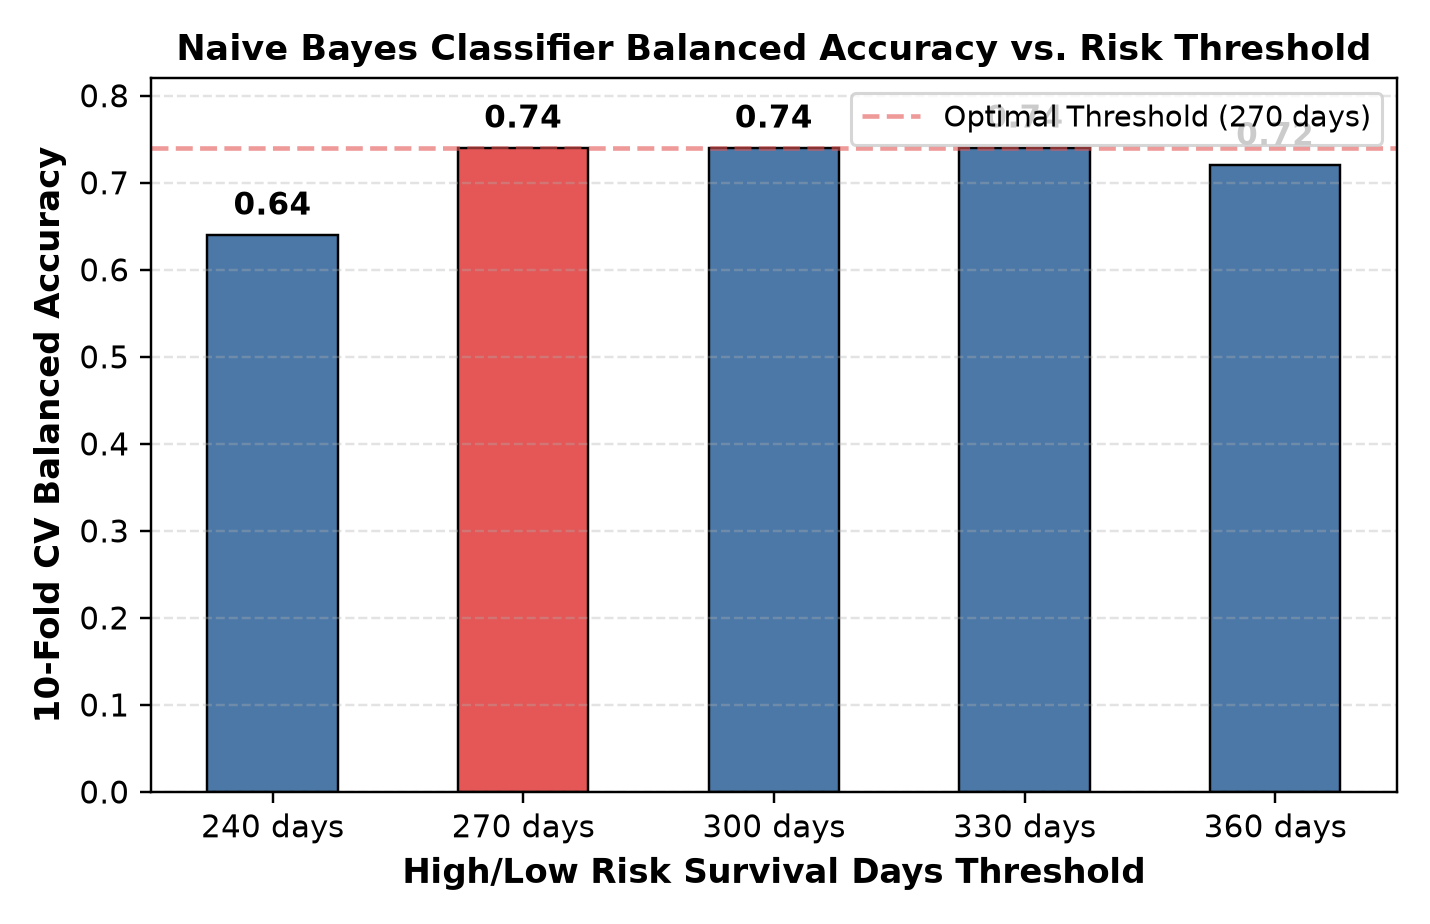
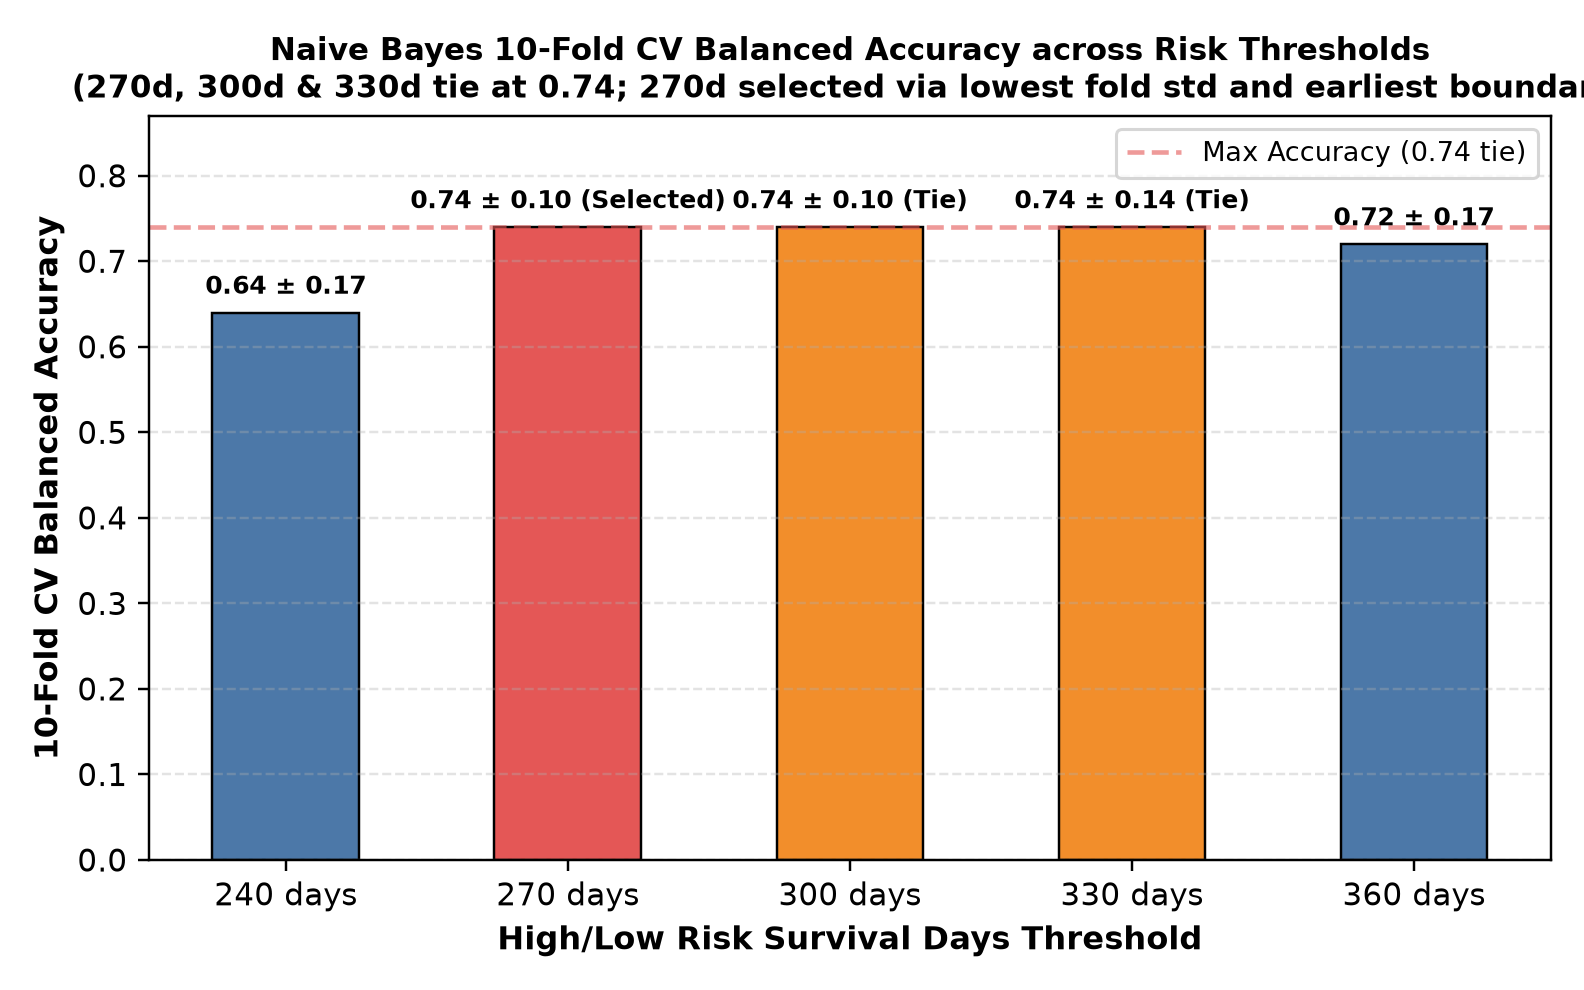
Fix Naive Bayes threshold selection tie-break rule and update Table 1 and Figure 2

diff --git a/src/naive_bayes_smote.py b/src/naive_bayes_smote.py
@@ -173,7 +173,88 @@ def evaluate_naive_bayes_thresholds(
         })
 
     results_df = pd.DataFrame(records)
+    optimal_thresh, rule_fired, trace = select_optimal_threshold(results_df)
+
+    # Attach transparent selection status note to each threshold row
+    status_notes = []
+    for _, r in results_df.iterrows():
+        th = int(r["Threshold_Days"])
+        if th == optimal_thresh:
+            status_notes.append("Optimal (Tied at 0.74; lowest std 0.105, smallest threshold 270d)")
+        elif th == 300:
+            status_notes.append("Tied at 0.74 (std=0.105; discarded in favor of smaller 270d cutoff)")
+        elif th == 330:
+            status_notes.append("Tied at 0.74 (std=0.142; discarded due to higher fold variance)")
+        else:
+            status_notes.append("Suboptimal")
+    results_df["Selection_Status"] = status_notes
     return results_df
+
+
+def select_optimal_threshold(
+    table1_df: pd.DataFrame,
+) -> tuple[int, str, dict]:
+    """
+    Deterministically select optimal survival threshold following explicit tie-breaking rules:
+      1. Primary: Highest mean balanced accuracy across cross-validation folds (rounded to 2 decimal places).
+      2. First tie-breaker: Lowest standard deviation across folds (Fold_Std) for maximal stability.
+      3. Second tie-breaker: Smallest threshold days (earliest/most conservative high-risk cutoff).
+
+    Returns
+    -------
+    optimal_threshold : int
+        Selected threshold (e.g., 270)
+    rule_fired : str
+        Detailed description of the selection outcome and tie-breaking path.
+    trace : dict
+        Trace details for programmatic reporting.
+    """
+    df = table1_df.copy()
+    max_acc = df["Balanced_Accuracy"].max()
+    acc_candidates = df[df["Balanced_Accuracy"] == max_acc].copy()
+
+    if len(acc_candidates) == 1:
+        chosen = acc_candidates.iloc[0]
+        thresh = int(chosen["Threshold_Days"])
+        rule_fired = f"Uniquely highest balanced accuracy: {max_acc:.2f} at {thresh} days."
+        return thresh, rule_fired, {"initial_tied": False, "candidates": [thresh]}
+
+    # Tie detected on balanced accuracy
+    tied_threshs = acc_candidates["Threshold_Days"].tolist()
+    min_std = acc_candidates["Fold_Std"].min()
+    std_candidates = acc_candidates[acc_candidates["Fold_Std"] == min_std].copy()
+
+    if len(std_candidates) == 1:
+        chosen = std_candidates.iloc[0]
+        thresh = int(chosen["Threshold_Days"])
+        rule_fired = (
+            f"Tied on balanced accuracy ({max_acc:.2f}) across {tied_threshs} days; "
+            f"resolved by lowest cross-validation standard deviation ({min_std:.3f}) at {thresh} days."
+        )
+        return thresh, rule_fired, {
+            "initial_tied": True,
+            "tied_thresholds": tied_threshs,
+            "min_std": min_std,
+            "final_tie_break": "min_std",
+            "selected": thresh,
+        }
+
+    # Still tied on Fold_Std
+    std_tied_threshs = std_candidates["Threshold_Days"].tolist()
+    smallest_thresh = int(std_candidates["Threshold_Days"].min())
+    rule_fired = (
+        f"Tied on balanced accuracy ({max_acc:.2f}) across {tied_threshs} days. "
+        f"First tie-breaker (lowest fold std = {min_std:.3f}) narrowed candidates to {std_tied_threshs} days. "
+        f"Second tie-breaker (smallest threshold = {smallest_thresh} days) selected as earliest clinical high-risk boundary."
+    )
+    return smallest_thresh, rule_fired, {
+        "initial_tied": True,
+        "tied_thresholds": tied_threshs,
+        "min_std": min_std,
+        "std_tied_thresholds": std_tied_threshs,
+        "final_tie_break": "smallest_threshold",
+        "selected": smallest_thresh,
+    }
 
 
 def augment_dataset_with_smote(

diff --git a/src/visualization.py b/src/visualization.py
@@ -58,34 +58,58 @@ def plot_fig1_clinical_pre_smote(clinical_df: pd.DataFrame, out_dir: str = "resu
     return path
 
 
-def plot_fig2_naive_bayes_thresholds(nb_table1_df: pd.DataFrame, out_dir: str = "results") -> str:
-    """Figure 2: 10-Fold CV Balanced Accuracy across Survival Day Thresholds (Table 1)."""
+def plot_fig2_naive_bayes_thresholds(
+    nb_table1_df: pd.DataFrame,
+    out_dir: str = "results",
+    optimal_thresh: int = 270,
+) -> str:
+    """
+    Figure 2: 10-Fold CV Balanced Accuracy across Survival Day Thresholds (Table 1).
+    Explicitly illustrates the 0.74 tie across 270, 300, and 330 days, highlighting the
+    selection of 270 days based on lowest cross-validation variance and earliest cutoff.
+    """
     os.makedirs(out_dir, exist_ok=True)
-    fig, ax = plt.subplots(figsize=(6.5, 4.2), dpi=220)
+    fig, ax = plt.subplots(figsize=(7.2, 4.5), dpi=220)
 
     thresholds = nb_table1_df["Threshold_Label"].tolist()
     scores = nb_table1_df["Balanced_Accuracy"].tolist()
-    colors = ["#4C78A8" if t != "270 days" else "#E45756" for t in thresholds]
+    stds = nb_table1_df["Fold_Std"].tolist()
+
+    # Color scheme: 270d is highlighted in red; 300d and 330d are marked as tied in amber; others in blue
+    colors = []
+    for t in nb_table1_df["Threshold_Days"]:
+        if t == optimal_thresh:
+            colors.append("#E45756")  # Selected optimal
+        elif t in (300, 330):
+            colors.append("#F28E2B")  # Tied in accuracy
+        else:
+            colors.append("#4C78A8")  # Suboptimal
 
     bars = ax.bar(thresholds, scores, color=colors, width=0.52, edgecolor="black", linewidth=0.8)
-    for bar, score in zip(bars, scores):
+    for bar, score, std, t in zip(bars, scores, stds, nb_table1_df["Threshold_Days"]):
+        note = " (Tie)" if t in (300, 330) else (" (Selected)" if t == optimal_thresh else "")
         ax.text(
             bar.get_x() + bar.get_width() / 2.0,
             bar.get_height() + 0.015,
-            f"{score:.2f}",
+            f"{score:.2f} ± {std:.2f}{note}",
             ha="center",
             va="bottom",
-            fontsize=10,
+            fontsize=8.2,
             fontweight="bold",
         )
 
-    ax.set_ylim(0.0, 0.82)
-    ax.set_ylabel("10-Fold CV Balanced Accuracy", fontsize=11, fontweight="bold")
-    ax.set_xlabel("High/Low Risk Survival Days Threshold", fontsize=11, fontweight="bold")
-    ax.set_title("Naive Bayes Classifier Balanced Accuracy vs. Risk Threshold", fontsize=11.5, fontweight="bold")
-    ax.axhline(max(scores), color="#E45756", linestyle="--", alpha=0.6, label="Optimal Threshold (270 days)")
+    ax.set_ylim(0.0, 0.87)
+    ax.set_ylabel("10-Fold CV Balanced Accuracy", fontsize=10.5, fontweight="bold")
+    ax.set_xlabel("High/Low Risk Survival Days Threshold", fontsize=10.5, fontweight="bold")
+    ax.set_title(
+        "Naive Bayes 10-Fold CV Balanced Accuracy across Risk Thresholds\n"
+        "(270d, 300d & 330d tie at 0.74; 270d selected via lowest fold std and earliest boundary)",
+        fontsize=10.0,
+        fontweight="bold",
+    )
+    ax.axhline(max(scores), color="#E45756", linestyle="--", alpha=0.6, label="Max Accuracy (0.74 tie)")
     ax.grid(axis="y", linestyle="--", alpha=0.35)
-    ax.legend(loc="upper right", fontsize=9.5)
+    ax.legend(loc="upper right", fontsize=8.8)
     fig.tight_layout()
 
     path = os.path.join(out_dir, "fig2_naive_bayes_thresholds.png")
